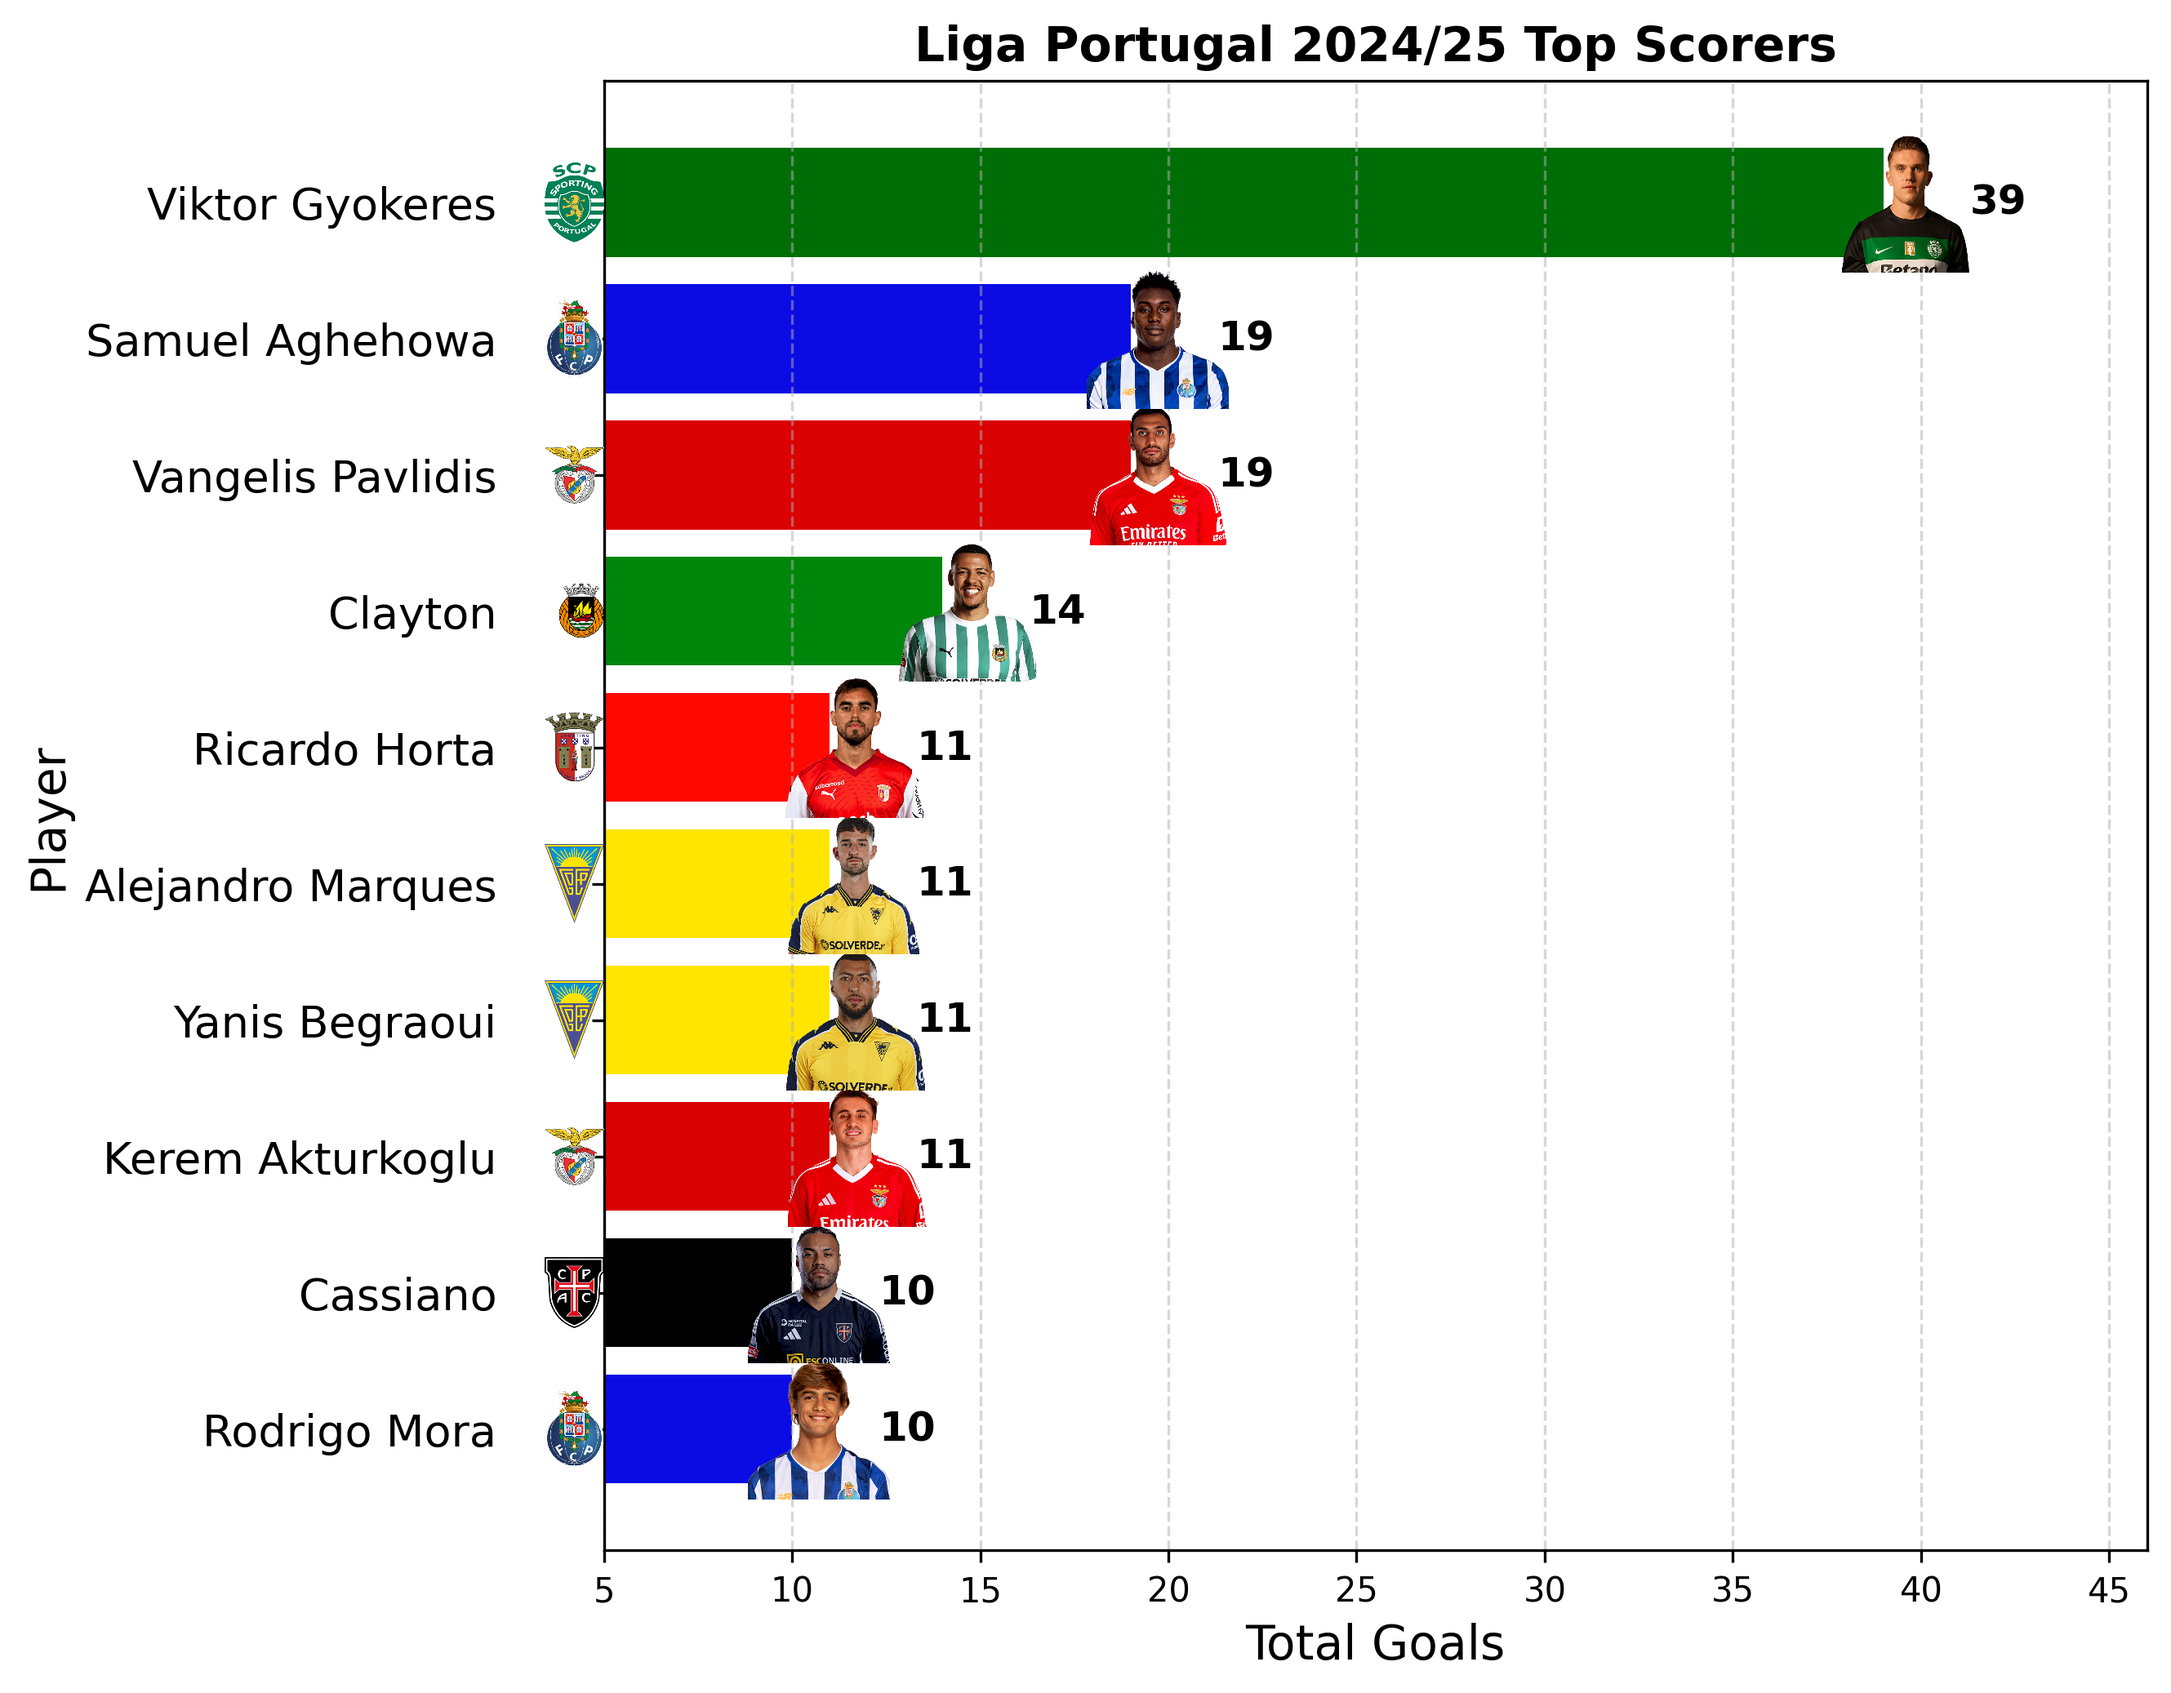
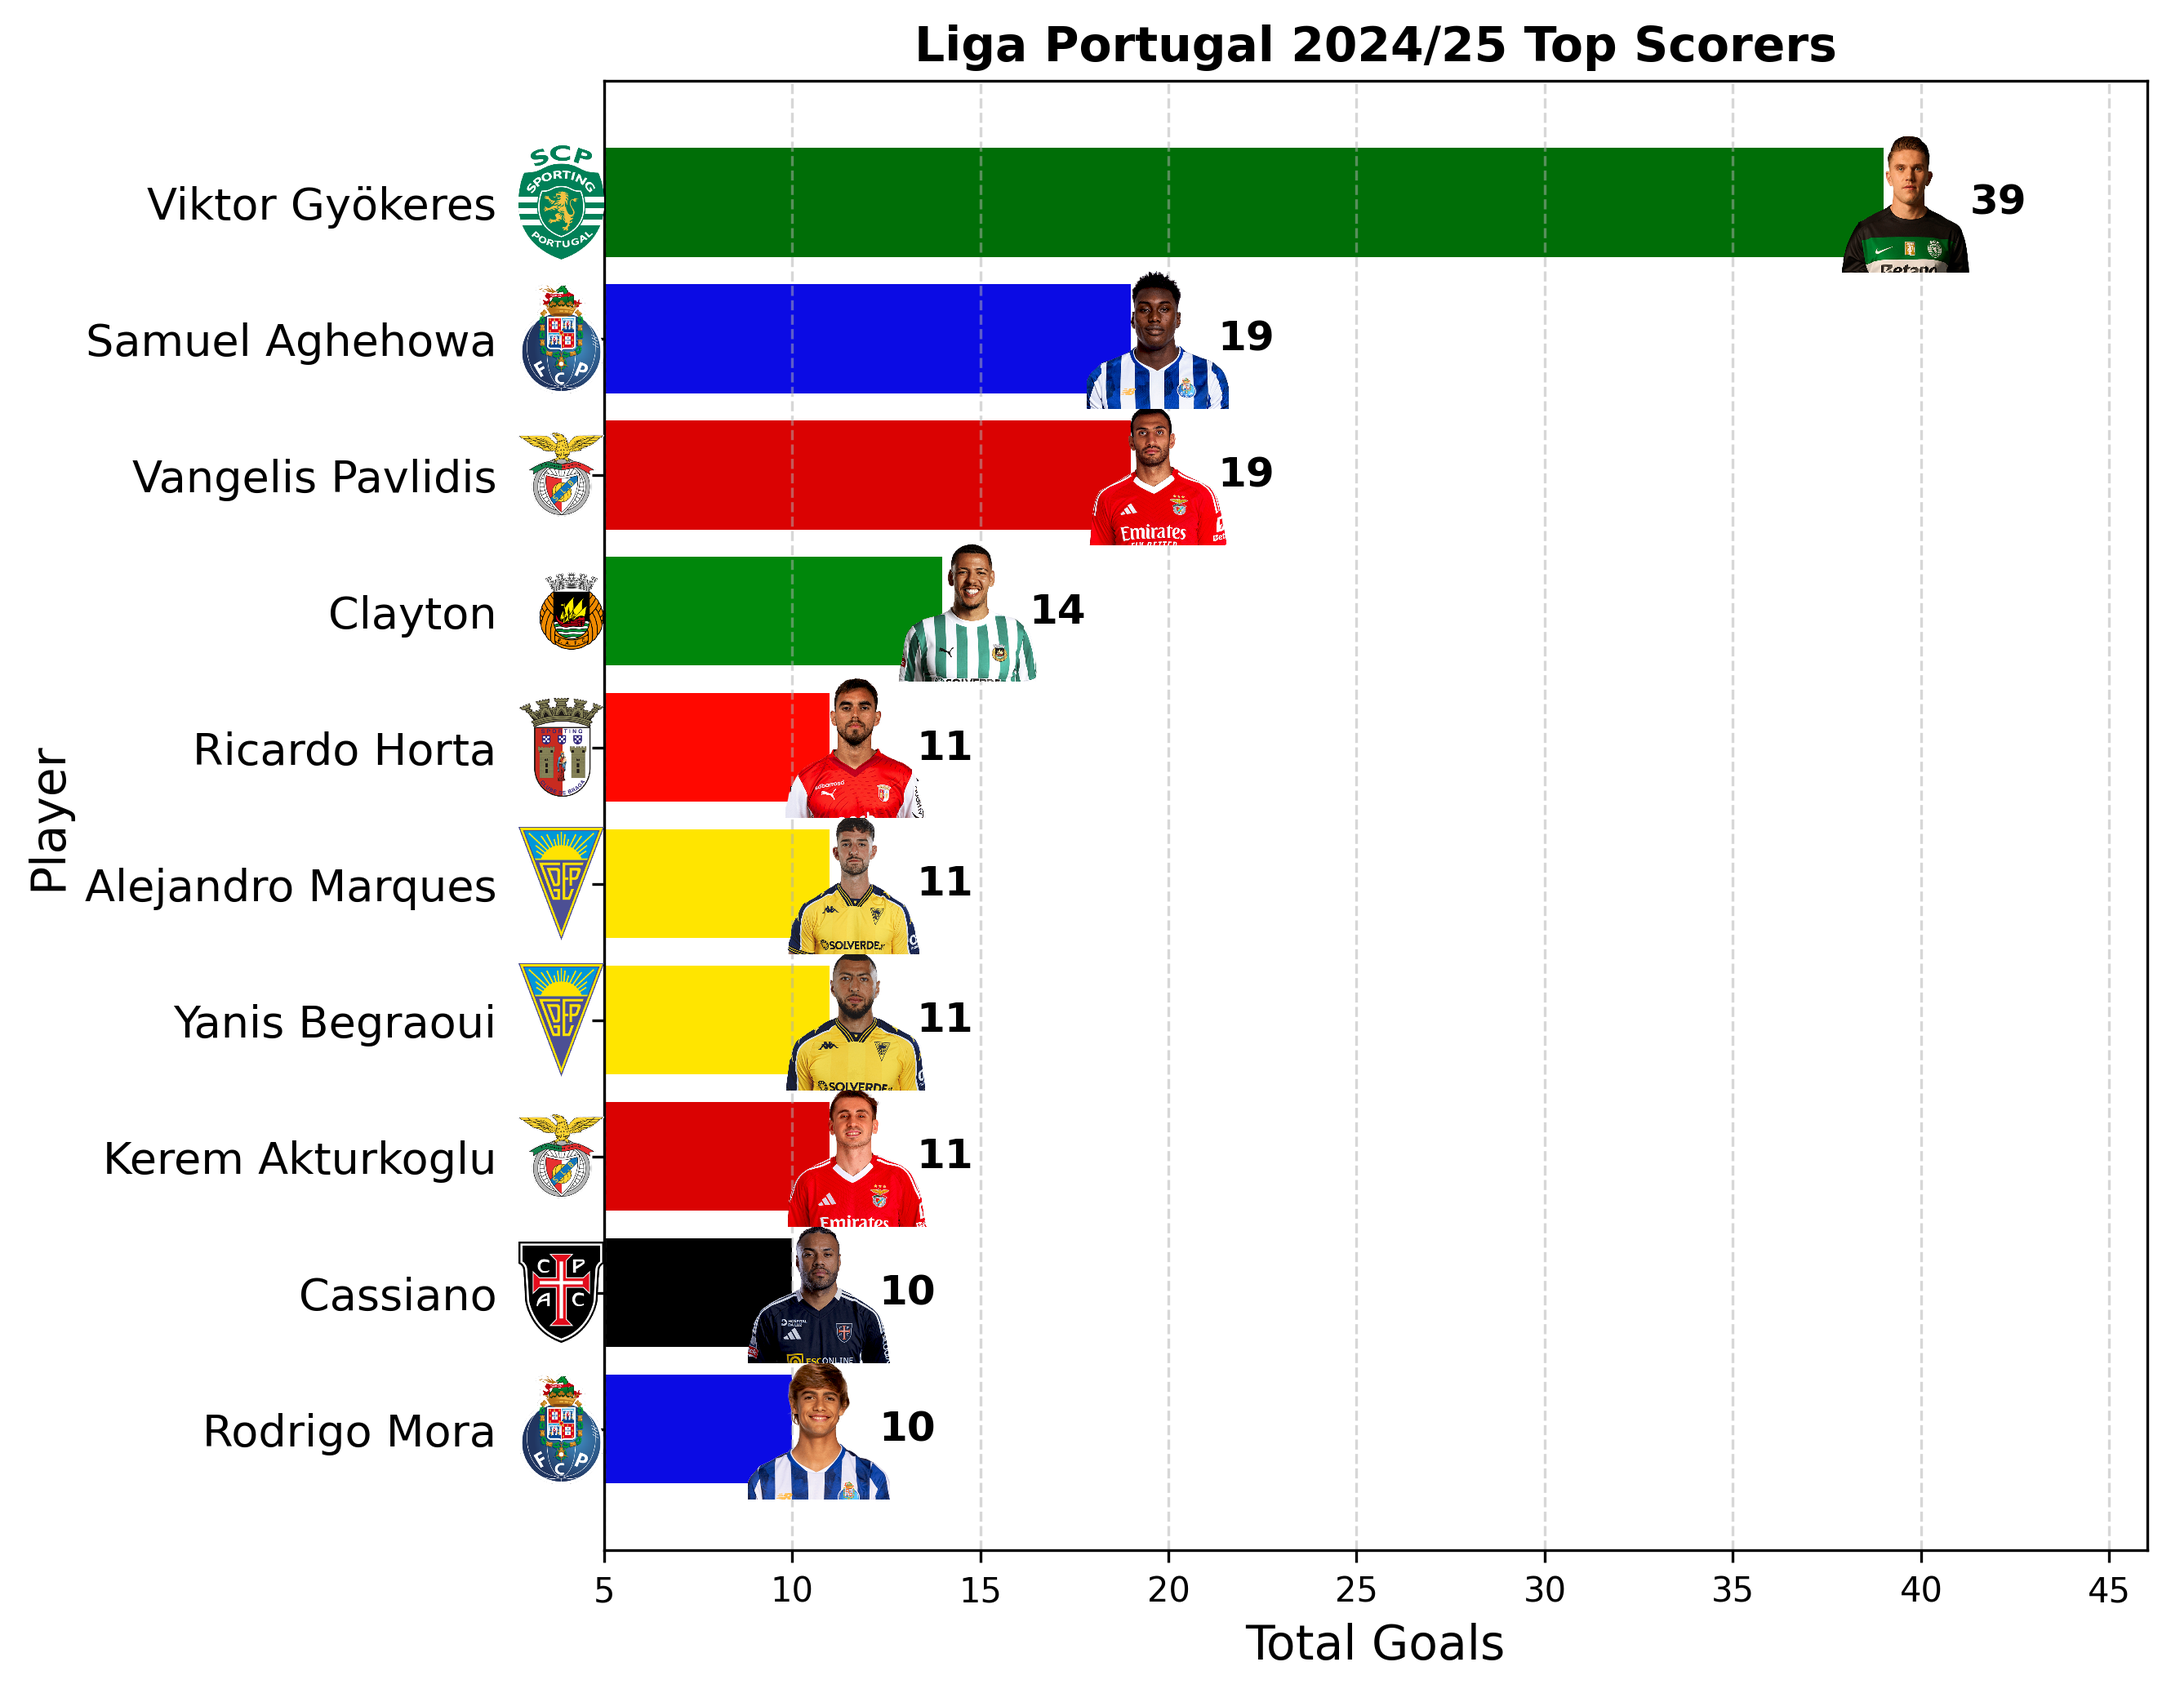
Add files via upload

Changed region(s): [[0.2185, 0.3394, 0.2809, 0.8949], [0.2185, 0.0926, 0.2809, 0.3086]]

diff --git a/Liga Portugal/Liga Portugal top scorers chart.py b/Liga Portugal/Liga Portugal top scorers chart.py
@@ -1,0 +1,116 @@
+import os
+import pandas as pd
+import numpy as np  
+
+# This code creates a DataFrame for Liga Portugal players and their goals scored in each gameweek.
+goals={
+    "Viktor Gyökeres":[1,2,3,1,1,2,0,1,1,4,0,0,1,1,0,0,3,1,0,0,0,0,1,2,2,1,2,1,0,3,4,0,0,1],
+    "Vangelis Pavlidis":[0,1,0,0,0,1,0,0,1,0,0,0,0,0,1,0,0,0,0,1,2,0,1,1,1,0,1,3,1,2,1,0,0,1],
+    "Samuel Aghehowa":[0,0,0,0,1,2,1,0,3,0,1,1,1,0,1,2,0,0,0,0,0,0,0,1,0,0,1,1,0,0,0,2,0,1],
+    "Clayton":[1,0,0,1,0,1,0,0,0,1,1,1,0,1,0,2,0,0,1,1,0,0,0,1,0,1,0,0,0,0,0,1,0,0],
+    "Kerem Akturkoglu":[0,0,0,0,1,0,1,3,0,0,0,1,0,0,0,0,0,0,0,0,0,0,0,0,1,0,2,0,0,0,1,0,1,0],
+    "Yanis Begraoui":[0,0,0,0,0,0,0,0,0,0,0,0,0,0,0,0,1,1,0,1,2,0,1,0,0,0,1,0,0,0,1,0,0,3],
+    "Alejandro Marques":[1,0,0,0,0,1,0,0,1,0,0,1,1,0,0,1,1,0,0,0,0,0,0,0,1,1,0,0,0,0,1,0,1,0],
+    "Ricardo Horta":[0,0,0,0,0,0,1,0,0,0,2,0,0,2,0,0,0,0,1,1,0,0,0,0,1,0,1,0,1,0,0,1,0,0],
+    "Rodrigo Mora":[0,0,0,0,0,0,0,0,1,0,0,0,0,0,1,1,0,0,0,0,0,0,0,0,0,1,1,0,1,2,0,0,1,1],
+    "Cassiano":[0,0,0,0,0,1,1,0,0,1,1,0,0,1,0,0,0,0,1,0,1,1,0,0,0,0,1,0,0,0,1,0,0,0]
+} 
+
+#Load the CSV
+df=pd.read_csv('/Users/siphuvuyomngxunyeni/Downloads/Football Analytics/Liga Portugal/2024-25 Liga Portugal cumulative goals.csv', index_col='Gameweek')
+final_goals = df.iloc[-1].sort_values()
+
+#Player colour mapping
+player_colours={
+    'Viktor Gyökeres': '#006E07',
+    'Vangelis Pavlidis': '#DA0202',
+    'Samuel Aghehowa': '#0B0BE4',
+    'Clayton': '#00870B',
+    'Kerem Akturkoglu': '#DA0202',
+    'Yanis Begraoui': '#FFE500',
+    'Alejandro Marques': '#FFE500',
+    'Ricardo Horta': '#FF0800',
+    'Rodrigo Mora': '#0B0BE4',
+    'Cassiano': '#000000'
+}
+
+club_badges={
+    'Viktor Gyökeres': '/Users/siphuvuyomngxunyeni/Downloads/Football Analytics/Liga Portugal/Liga Portugal club badges/Sporting Lisbon_logo.png',
+    'Vangelis Pavlidis': '/Users/siphuvuyomngxunyeni/Downloads/Football Analytics/Liga Portugal/Liga Portugal club badges/SL Benfica_logo.png',
+    'Samuel Aghehowa': '/Users/siphuvuyomngxunyeni/Downloads/Football Analytics/Liga Portugal/Liga Portugal club badges/FC Porto_logo.png',
+    'Clayton': '/Users/siphuvuyomngxunyeni/Downloads/Football Analytics/Liga Portugal/Liga Portugal club badges/Rio Ave_logo.png',
+    'Kerem Akturkoglu': '/Users/siphuvuyomngxunyeni/Downloads/Football Analytics/Liga Portugal/Liga Portugal club badges/SL Benfica_logo2.png',
+    'Yanis Begraoui':'/Users/siphuvuyomngxunyeni/Downloads/Football Analytics/Liga Portugal/Liga Portugal club badges/Estoril_logo.png',
+    'Alejandro Marques': '/Users/siphuvuyomngxunyeni/Downloads/Football Analytics/Liga Portugal/Liga Portugal club badges/Estoril_logo2.png',
+    'Ricardo Horta': '/Users/siphuvuyomngxunyeni/Downloads/Football Analytics/Liga Portugal/Liga Portugal club badges/SC Braga_logo.png',
+    'Rodrigo Mora': '/Users/siphuvuyomngxunyeni/Downloads/Football Analytics/Liga Portugal/Liga Portugal club badges/FC Porto2_logo.png',
+    'Cassiano': '/Users/siphuvuyomngxunyeni/Downloads/Football Analytics/Liga Portugal/Liga Portugal club badges/Casa Pia_logo.png'
+}
+
+player_faces={
+    'Viktor Gyökeres': '/Users/siphuvuyomngxunyeni/Downloads/Football Analytics/Liga Portugal/Liga Portugal Top scorer images/Viktor Gyokeres_lp.png',
+    'Vangelis Pavlidis': '/Users/siphuvuyomngxunyeni/Downloads/Football Analytics/Liga Portugal/Liga Portugal Top scorer images/Vangelis Pavlidis_lp.png',
+    'Samuel Aghehowa': '/Users/siphuvuyomngxunyeni/Downloads/Football Analytics/Liga Portugal/Liga Portugal Top scorer images/Samuel Aghehowa_lp.png',
+    'Clayton': '/Users/siphuvuyomngxunyeni/Downloads/Football Analytics/Liga Portugal/Liga Portugal Top scorer images/Clayton_lp.png',
+    'Kerem Akturkoglu': '/Users/siphuvuyomngxunyeni/Downloads/Football Analytics/Liga Portugal/Liga Portugal Top scorer images/Kerem Akturkoglu_lp.png',
+    'Yanis Begraoui': '/Users/siphuvuyomngxunyeni/Downloads/Football Analytics/Liga Portugal/Liga Portugal Top scorer images/Yanis Begraoui_lp.png',
+    'Alejandro Marques': '/Users/siphuvuyomngxunyeni/Downloads/Football Analytics/Liga Portugal/Liga Portugal Top scorer images/Alejandro Marques_lp.png',
+    'Ricardo Horta': '/Users/siphuvuyomngxunyeni/Downloads/Football Analytics/Liga Portugal/Liga Portugal Top scorer images/Ricardo Horta_lp.png',
+    'Rodrigo Mora': '/Users/siphuvuyomngxunyeni/Downloads/Football Analytics/Liga Portugal/Liga Portugal Top scorer images/Rodrigo Mora_lp.png',     
+    'Cassiano': '/Users/siphuvuyomngxunyeni/Downloads/Football Analytics/Liga Portugal/Liga Portugal Top scorer images/Cassiano_lp.png'   
+}
+
+
+import matplotlib.pyplot as plt
+from PIL import Image
+import matplotlib.image as mpimg
+from matplotlib.offsetbox import OffsetImage, AnnotationBbox
+
+fig, ax = plt.subplots(figsize=(14, 8))
+bars = ax.barh(final_goals.index, final_goals.values, color=[player_colours.get(p, 'gray') for p in final_goals.index])
+
+# Add club badge and player face
+for i, player in enumerate(final_goals.index):
+    y = i
+    # Club badge to the left
+    if player in club_badges:
+        try:
+            badge_img = mpimg.imread(club_badges[player])
+            imagebox = OffsetImage(badge_img, zoom=0.1)
+            ab = AnnotationBbox(imagebox, (final_goals.min() -5, y), frameon=False, box_alignment=(1,0.5))
+            ax.add_artist(ab)
+        except Exception as e:
+            print(f"Could not load badge for {player}: {e}")
+    # Player face to the right
+    if player in player_faces:
+        try:
+            face_img = mpimg.imread(player_faces[player])
+            imagebox = OffsetImage(face_img, zoom=0.08)
+            ab = AnnotationBbox(imagebox, (final_goals[player]+0.7, y), frameon=False, box_alignment=(0.5,0.5))
+            ax.add_artist(ab)
+        except Exception as e:
+            print(f"Could not load face for {player}: {e}")
+    # Add text label for the goal count
+    ax.text(final_goals[player]+2.3, y, f"{int(final_goals[player])}", va='center', fontsize=12, fontweight='bold')
+
+# Set y-ticks and y-tick labels as usual
+ax.set_yticks(range(len(final_goals.index)))
+ax.set_yticklabels(final_goals.index, fontsize=13)
+
+# Find the minimum x-limit to position badges just left of the labels
+badge_x = final_goals.min() - 5  # Adjust this value as needed for spacing
+
+# Aesthetics
+ax.set_xlabel('Total Goals', fontsize=14)
+ax.set_ylabel('Player', fontsize=14)
+ax.set_title('Liga Portugal 2024/25 Top Scorers', fontsize=14, weight='bold')
+ax.set_xlim(final_goals.min()-5, final_goals.max()+7)
+ax.set_yticks(range(len(final_goals.index)))
+ax.set_yticklabels(final_goals.index, fontsize=13)
+ax.tick_params(axis='y', which='both', direction='out', pad=28)
+ax.grid(axis='x', linestyle='--', alpha=0.5)
+plt.subplots_adjust(left=0.5, right=0.95, top=0.9, bottom=0.15)
+plt.savefig('/Users/siphuvuyomngxunyeni/Downloads/Football Analytics/Liga Portugal 2024-25 Top Scorers.png', dpi=300, bbox_inches='tight')
+plt.tight_layout()
+
+plt.show()

diff --git a/Liga Portugal/Liga Portugal 2024-25 cumulative goals.py b/Liga Portugal/Liga Portugal 2024-25 cumulative goals.py
@@ -1,0 +1,40 @@
+import os
+import pandas as pd
+import numpy as np  
+
+# This code creates a DataFrame for Liga Portugal players and their goals scored in each gameweek.
+goals={
+    "Viktor Gyökeres":[1,2,3,1,1,2,0,1,1,4,0,0,1,1,0,0,3,1,0,0,0,0,1,2,2,1,2,1,0,3,4,0,0,1],
+    "Vangelis Pavlidis":[0,1,0,0,0,1,0,0,1,0,0,0,0,0,1,0,0,0,0,1,2,0,1,1,1,0,1,3,1,2,1,0,0,1],
+    "Samuel Aghehowa":[0,0,0,0,1,2,1,0,3,0,1,1,1,0,1,2,0,0,0,0,0,0,0,1,0,0,1,1,0,0,0,2,0,1],
+    "Clayton":[1,0,0,1,0,1,0,0,0,1,1,1,0,1,0,2,0,0,1,1,0,0,0,1,0,1,0,0,0,0,0,1,0,0],
+    "Kerem Akturkoglu":[0,0,0,0,1,0,1,3,0,0,0,1,0,0,0,0,0,0,0,0,0,0,0,0,1,0,2,0,0,0,1,0,1,0],
+    "Yanis Begraoui":[0,0,0,0,0,0,0,0,0,0,0,0,0,0,0,0,1,1,0,1,2,0,1,0,0,0,1,0,0,0,1,0,0,3],
+    "Alejandro Marques":[1,0,0,0,0,1,0,0,1,0,0,1,1,0,0,1,1,0,0,0,0,0,0,0,1,1,0,0,0,0,1,0,1,0],
+    "Ricardo Horta":[0,0,0,0,0,0,1,0,0,0,2,0,0,2,0,0,0,0,1,1,0,0,0,0,1,0,1,0,1,0,0,1,0,0],
+    "Rodrigo Mora":[0,0,0,0,0,0,0,0,1,0,0,0,0,0,1,1,0,0,0,0,0,0,0,0,0,1,1,0,1,2,0,0,1,1],
+    "Cassiano":[0,0,0,0,0,1,1,0,0,1,1,0,0,1,0,0,0,0,1,0,1,1,0,0,0,0,1,0,0,0,1,0,0,0]
+} 
+
+def cumulative_goals(goals_dict):
+     cumulative = {}
+     for player, goals_list in goals_dict.items():
+        cum_sum = []
+        total = 0
+        for g in goals_list:
+            total += g
+            cum_sum.append(total)
+        cumulative[player] = cum_sum
+     return cumulative
+
+cumulative_data=cumulative_goals(goals)
+df_cumulative = pd.DataFrame(cumulative_data)
+df_cumulative.index=range(1, len(df_cumulative) + 1)
+df_cumulative.index.name = "Gameweek"
+df_cumulative.to_csv('2024-25 Liga Portugal cumulative goals.csv')
+
+data=pd.DataFrame(df_cumulative)
+
+print(data)
+
+data=df_cumulative.to_csv('/Users/siphuvuyomngxunyeni/Downloads/Football Analytics/Liga Portugal/2024-25 Liga Portugal cumulative goals.csv', index=True)

diff --git a/Liga Portugal/Liga Portugal 2024-25 animation.py b/Liga Portugal/Liga Portugal 2024-25 animation.py
@@ -17,7 +17,7 @@ from matplotlib.offsetbox import OffsetImage, AnnotationBbox
 
 #Player colour mapping
 player_colours={
-    'Viktor Gyokeres': '#006E07',
+    'Viktor Gyökeres': '#006E07',
     'Vangelis Pavlidis': '#DA0202',
     'Samuel Aghehowa': '#0B0BE4',
     'Clayton': '#00870B',
@@ -30,7 +30,7 @@ player_colours={
 }
 
 club_badges={
-    'Viktor Gyokeres': '/Users/siphuvuyomngxunyeni/Downloads/Football Analytics/Liga Portugal/Liga Portugal club badges/Sporting Lisbon_logo.png',
+    'Viktor Gyökeres': '/Users/siphuvuyomngxunyeni/Downloads/Football Analytics/Liga Portugal/Liga Portugal club badges/Sporting Lisbon_logo.png',
     'Vangelis Pavlidis': '/Users/siphuvuyomngxunyeni/Downloads/Football Analytics/Liga Portugal/Liga Portugal club badges/SL Benfica_logo.png',
     'Samuel Aghehowa': '/Users/siphuvuyomngxunyeni/Downloads/Football Analytics/Liga Portugal/Liga Portugal club badges/FC Porto_logo.png',
     'Clayton': '/Users/siphuvuyomngxunyeni/Downloads/Football Analytics/Liga Portugal/Liga Portugal club badges/Rio Ave_logo.png',
@@ -43,7 +43,7 @@ club_badges={
 }
 
 player_faces={
-    'Viktor Gyokeres': '/Users/siphuvuyomngxunyeni/Downloads/Football Analytics/Liga Portugal/Liga Portugal Top scorer images/Viktor Gyokeres_lp.png',
+    'Viktor Gyökeres': '/Users/siphuvuyomngxunyeni/Downloads/Football Analytics/Liga Portugal/Liga Portugal Top scorer images/Viktor Gyokeres_lp.png',
     'Vangelis Pavlidis': '/Users/siphuvuyomngxunyeni/Downloads/Football Analytics/Liga Portugal/Liga Portugal Top scorer images/Vangelis Pavlidis_lp.png',
     'Samuel Aghehowa': '/Users/siphuvuyomngxunyeni/Downloads/Football Analytics/Liga Portugal/Liga Portugal Top scorer images/Samuel Aghehowa_lp.png',
     'Clayton': '/Users/siphuvuyomngxunyeni/Downloads/Football Analytics/Liga Portugal/Liga Portugal Top scorer images/Clayton_lp.png',
